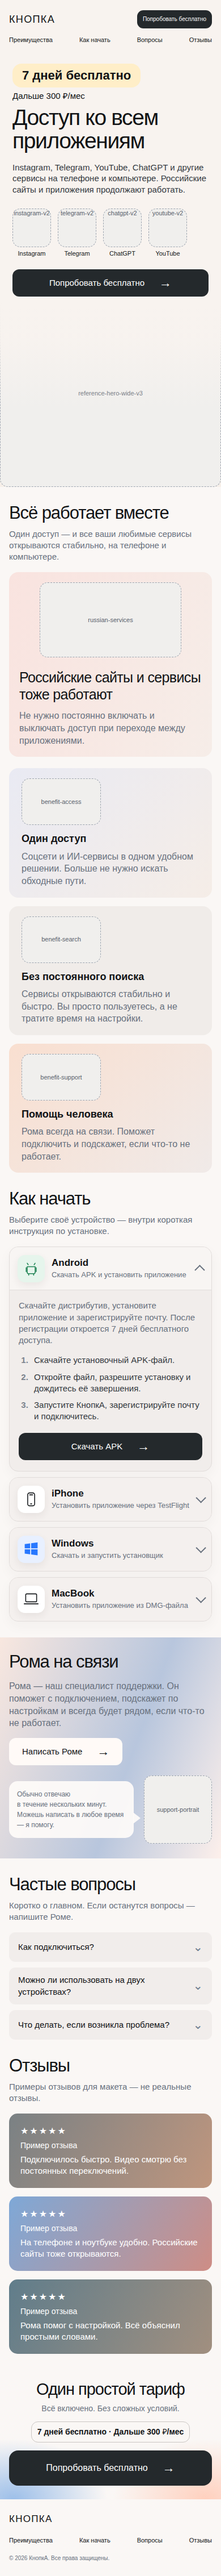
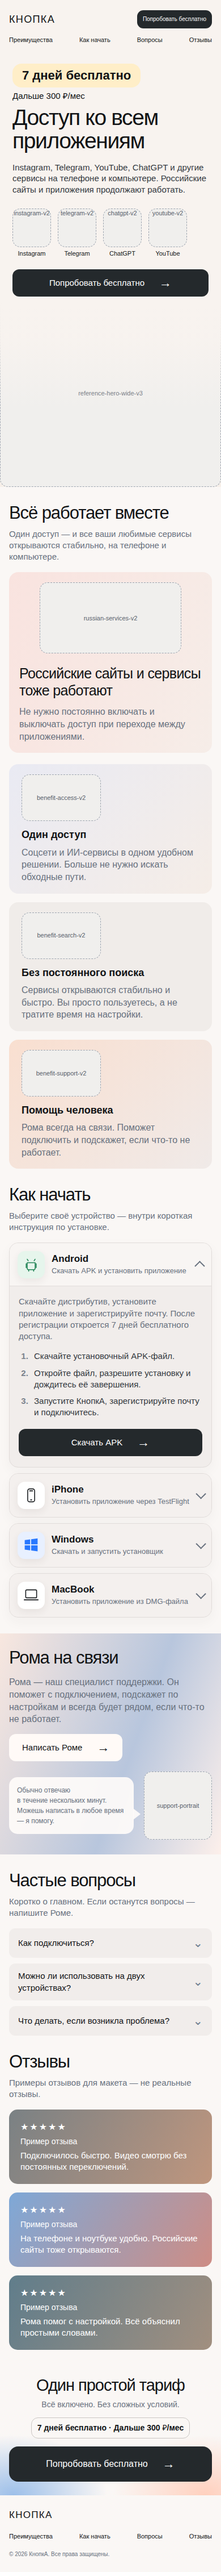
Upgrade landing benefit artwork

diff --git a/Design2.0/version-001-mvp/site/template/index.html b/Design2.0/version-001-mvp/site/template/index.html
@@ -33,11 +33,11 @@
   <main id="main">
     <section class="section shell" id="benefits" aria-labelledby="benefits-title">
       <h2 id="benefits-title">Всё работает вместе</h2><p class="section-intro">Один доступ — и все ваши любимые сервисы открываются<br class="desktop-break"> стабильно, на телефоне и компьютере.</p>
-      <article class="russian-card"><span class="media-slot " role="img" aria-label="Место для изображения russian-services" style="--slot-ratio:250/132">russian-services</span><div><h3>Российские сайты<br class="desktop-break"> и сервисы тоже работают</h3><p>Не нужно постоянно включать и выключать доступ при переходе между приложениями.</p></div></article>
+      <article class="russian-card"><span class="media-slot " role="img" aria-label="Место для изображения russian-services-v2" style="--slot-ratio:1200/600">russian-services-v2</span><div><h3>Российские сайты<br class="desktop-break"> и сервисы тоже работают</h3><p>Не нужно постоянно включать и выключать доступ при переходе между приложениями.</p></div></article>
       <div class="benefits grid-three">
-        <article><span class="media-slot " role="img" aria-label="Место для изображения benefit-access" style="--slot-ratio:140/82">benefit-access</span><h3>Один доступ</h3><p>Соцсети и ИИ-сервисы в одном удобном решении. Больше не нужно искать обходные пути.</p></article>
-        <article><span class="media-slot " role="img" aria-label="Место для изображения benefit-search" style="--slot-ratio:140/82">benefit-search</span><h3>Без постоянного поиска</h3><p>Сервисы открываются стабильно и быстро. Вы просто пользуетесь, а не тратите время на настройки.</p></article>
-        <article><span class="media-slot " role="img" aria-label="Место для изображения benefit-support" style="--slot-ratio:140/82">benefit-support</span><h3>Помощь человека</h3><p>Рома всегда на связи. Поможет подключить и подскажет, если что-то не работает.</p></article>
+        <article><span class="media-slot " role="img" aria-label="Место для изображения benefit-access-v2" style="--slot-ratio:960/640">benefit-access-v2</span><h3>Один доступ</h3><p>Соцсети и ИИ-сервисы в одном удобном решении. Больше не нужно искать обходные пути.</p></article>
+        <article><span class="media-slot " role="img" aria-label="Место для изображения benefit-search-v2" style="--slot-ratio:960/640">benefit-search-v2</span><h3>Без постоянного поиска</h3><p>Сервисы открываются стабильно и быстро. Вы просто пользуетесь, а не тратите время на настройки.</p></article>
+        <article><span class="media-slot " role="img" aria-label="Место для изображения benefit-support-v2" style="--slot-ratio:925/640">benefit-support-v2</span><h3>Помощь человека</h3><p>Рома всегда на связи. Поможет подключить и подскажет, если что-то не работает.</p></article>
       </div>
     </section>
     <section class="section shell" id="start" aria-labelledby="start-title">

diff --git a/Design2.0/version-001-mvp/site/source/index.html b/Design2.0/version-001-mvp/site/source/index.html
@@ -33,11 +33,11 @@
   <main id="main">
     <section class="section shell" id="benefits" aria-labelledby="benefits-title">
       <h2 id="benefits-title">Всё работает вместе</h2><p class="section-intro">Один доступ — и все ваши любимые сервисы открываются<br class="desktop-break"> стабильно, на телефоне и компьютере.</p>
-      <article class="russian-card"><img src="../assets/russian-services.png" alt="Иконки российских сервисов" width="250" height="132"><div><h3>Российские сайты<br class="desktop-break"> и сервисы тоже работают</h3><p>Не нужно постоянно включать и выключать доступ при переходе между приложениями.</p></div></article>
+      <article class="russian-card"><img src="../assets/russian-services-v2.png" alt="Иконки российских сервисов" width="1200" height="600"><div><h3>Российские сайты<br class="desktop-break"> и сервисы тоже работают</h3><p>Не нужно постоянно включать и выключать доступ при переходе между приложениями.</p></div></article>
       <div class="benefits grid-three">
-        <article><img src="../assets/benefit-access.png" alt="" width="140" height="82"><h3>Один доступ</h3><p>Соцсети и ИИ-сервисы в одном удобном решении. Больше не нужно искать обходные пути.</p></article>
-        <article><img src="../assets/benefit-search.png" alt="" width="140" height="82"><h3>Без постоянного поиска</h3><p>Сервисы открываются стабильно и быстро. Вы просто пользуетесь, а не тратите время на настройки.</p></article>
-        <article><img src="../assets/benefit-support.png" alt="" width="140" height="82"><h3>Помощь человека</h3><p>Рома всегда на связи. Поможет подключить и подскажет, если что-то не работает.</p></article>
+        <article><img src="../assets/benefit-access-v2.png" alt="" width="960" height="640"><h3>Один доступ</h3><p>Соцсети и ИИ-сервисы в одном удобном решении. Больше не нужно искать обходные пути.</p></article>
+        <article><img src="../assets/benefit-search-v2.png" alt="" width="960" height="640"><h3>Без постоянного поиска</h3><p>Сервисы открываются стабильно и быстро. Вы просто пользуетесь, а не тратите время на настройки.</p></article>
+        <article><img src="../assets/benefit-support-v2.png" alt="" width="925" height="640"><h3>Помощь человека</h3><p>Рома всегда на связи. Поможет подключить и подскажет, если что-то не работает.</p></article>
       </div>
     </section>
     <section class="section shell" id="start" aria-labelledby="start-title">

diff --git a/Design2.0/version-001-mvp/site/source/styles.css b/Design2.0/version-001-mvp/site/source/styles.css
@@ -42,4 +42,7 @@
 .hero-copy{width:48%;padding:30px 0 70px}
 @media(min-width:701px) and (max-width:1000px){.hero-wrap{min-height:512px}.hero{min-height:460px}.hero-copy{width:49%;padding:14px 0 30px}}
 @media(max-width:700px){.hero-wrap{min-height:0;padding-bottom:310px}.hero-wrap::after{background:linear-gradient(180deg,#f8f3ef 0,#f8f3ef 62%,rgb(248 243 239 / 90%) 70%,transparent 84%)}.hero-background{inset:auto 0 0;height:330px;object-position:64% center}.hero{width:100%;min-height:0;display:block}.hero-copy{width:100%;padding:20px 22px 25px}}
+
+/* Benefit art v2 uses real alpha; card backgrounds remain visible around it. */
+.russian-card img,.benefits img{border-radius:0}
 @media(prefers-reduced-motion:no-preference){html{scroll-behavior:smooth}}

diff --git a/Design2.0/version-001-mvp/site/assets/README.md b/Design2.0/version-001-mvp/site/assets/README.md
@@ -44,3 +44,21 @@
 Загруженные SVG и контрольные PNG-копии находятся в
 `sources/app-icons/`. Названия и товарные знаки принадлежат соответствующим
 правообладателям.
+
+## Benefits v2
+
+Для секции «Всё работает вместе» встроенным imagegen пересобраны четыре
+иллюстрации с настоящим прозрачным фоном:
+
+- `russian-services-v2.png` — `1200×600`;
+- `benefit-access-v2.png` — `960×640`;
+- `benefit-search-v2.png` — `960×640`;
+- `benefit-support-v2.png` — `925×640`.
+
+Каждый файл имеет RGBA/alpha (`opaque=false`); цвет карточки задаётся только
+CSS и остаётся виден за объектом и его мягкой тенью. После генерации PNG
+нормализованы и сжаты ImageMagick без добавления фоновой заливки.
+
+Краткие prompts: сохранить исходные формы и мягкую сине-персиковую 3D-палитру,
+повысить детализацию, изолировать объект вместе с тенью на genuine transparent
+background; без прямоугольной подложки, текста и водяных знаков.
